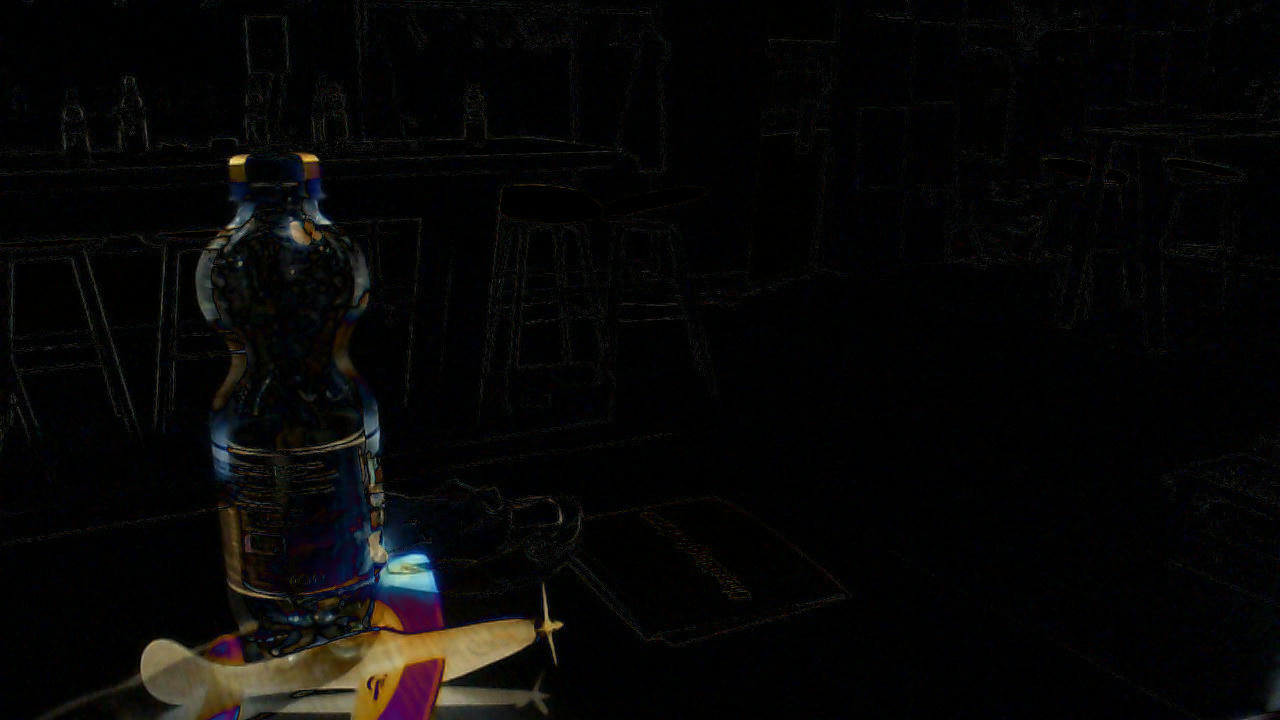
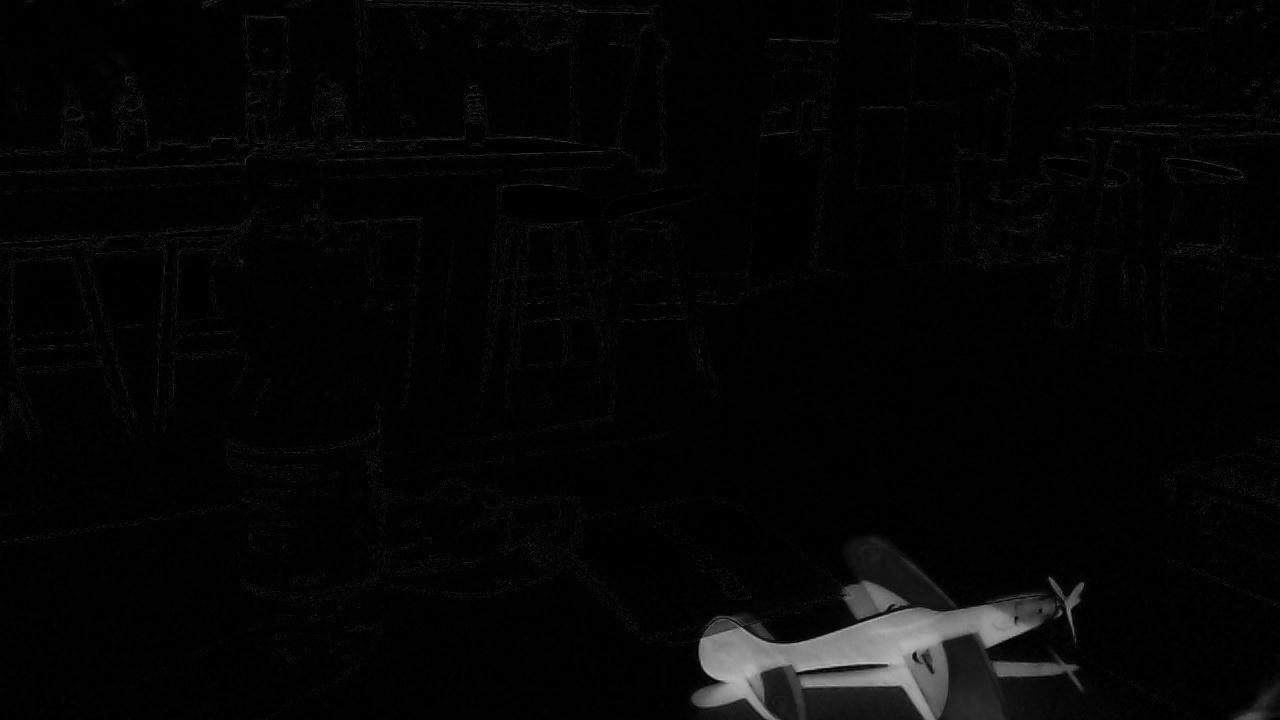
asdf

diff --git a/src/bin/detect.rs b/src/bin/detect.rs
@@ -1,62 +1,35 @@
-use image::{
-    codecs::hdr::Rgbe8Pixel, GenericImage, GenericImageView, ImageBuffer,
-    Pixel, Rgb, RgbImage,
-};
+use image::{DynamicImage, ImageBuffer, Rgb, RgbImage};
 
-pub fn difference(a: Vec<Vec<u8>>, b: Vec<Vec<u8>>) -> Vec<Vec<u8>> {
-    if (a.len() != b.len()) {
-        todo!()
-    }
-    return a
-        .iter()
-        .zip(b.iter())
-        .map(|(row1, row2)| {
-            row1.iter()
-                .zip(row2.iter())
-                .map(|(x, y)| x.abs_diff(*y))
-                .collect::<Vec<u8>>()
-        })
-        .collect::<Vec<Vec<u8>>>();
+fn h(pix: &Rgb<u8>) -> u64 {
+    let (x, y, z) = (pix.0[0] as u64, pix.0[1] as u64, pix.0[2] as u64);
+    return x * x + y * y + z * z;
 }
 
-pub fn average(mut absdiff: Vec<Vec<u8>>) -> (u32, u32) {
-    let sum: u32 = absdiff
-        .iter()
-        .map(|x| x.iter().map(|y| *y as u32).sum::<u32>())
+pub fn average(img: &DynamicImage) -> (u64, u64) {
+    let img = img.to_rgb8();
+    let sum: u64 = img.enumerate_pixels().map(|(_x, _y, pix)| h(pix)).sum();
+    let x: u64 = img
+        .enumerate_pixels()
+        .map(|(x, _y, pix)| x as u64 * h(pix))
         .sum();
-    let x: u32 = absdiff
-        .iter()
-        .enumerate()
-        .map(|(x, row)| {
-            row.iter()
-                .enumerate()
-                .map(|(y, val)| x as u32 * (*val) as u32)
-                .sum::<u32>()
-        })
-        .sum();
-    let y: u32 = absdiff
-        .iter()
-        .enumerate()
-        .map(|(x, row)| {
-            row.iter()
-                .enumerate()
-                .map(|(y, val)| y as u32 * (*val) as u32)
-                .sum::<u32>()
-        })
+    let y: u64 = img
+        .enumerate_pixels()
+        .map(|(_x, y, pix)| y as u64 * h(pix))
         .sum();
     return (x / sum, y / sum);
 }
 
 pub fn difference2(
-    img: RgbImage,
-    img2: RgbImage,
+    img: &RgbImage,
+    img2: &RgbImage,
 ) -> ImageBuffer<Rgb<u8>, Vec<u8>> {
     let mut diff = RgbImage::new(img.dimensions().0, img.dimensions().1);
+
     diff.enumerate_pixels_mut()
         .map(|(x, y, pix)| (img.get_pixel(x, y).0, img2.get_pixel(x, y).0, pix))
         .for_each(|(a, b, pix)| {
             *pix = Rgb([
-                a[0].abs_diff(b[0]), //TOdo
+                a[0].abs_diff(b[0]), //Todo
                 a[1].abs_diff(b[1]),
                 a[2].abs_diff(b[2]),
             ])

diff --git a/src/main.rs b/src/main.rs
@@ -1,12 +1,31 @@
+use egui::vec2;
 use image::open;
 #[path = "bin/detect.rs"]
 mod detect;
 mod image_manipulation;
+#[path = "bin/visualization.rs"]
+mod vis;
+
 fn main() {
-    let a = open("data/plane_2_1.jpg").unwrap();
+    let a = open("data/plane_2_2.jpg").unwrap();
     let b = open("data/no_plane_2.jpg").unwrap();
-    let mut diff = detect::difference2(a.into_rgb8(), b.into_rgb8());
-    diff.save("Testdiff.jpg");
+    let diff = detect::difference2(&a.clone().into_rgb8(), &b.into_rgb8());
+    diff.save("Difference.jpg").unwrap();
+    let diff = open("Difference.jpg").unwrap();
+    diff.grayscale().save("GrayscaleDifference.jpg").unwrap();
+    let diff = open("GrayscaleDifference.jpg").unwrap();
+    let x = detect::average(&diff);
+    let data = vec![
+        vec2(x.0 as f32, a.height() as f32 - x.1 as f32),
+        vec2(0., 0.),
+    ];
+    let native_options = eframe::NativeOptions::default();
+    eframe::run_native(
+        "My egui App",
+        native_options,
+        Box::new(|cc| Box::new(vis::MyEguiApp::new(cc, a, data))),
+    )
+    .unwrap();
     //let a = image_manipulation::to_grayscale(a);
     //let b = image_manipulation::to_grayscale(b);
     //dbg!("Grayscaled");

diff --git a/src/bin/visualization.rs b/src/bin/visualization.rs
@@ -17,13 +17,13 @@ fn main() {
     .unwrap();
 }
 
-struct MyEguiApp {
+pub struct MyEguiApp {
     tex: TextureHandle,
     data: Vec<Vec2>,
 }
 
 impl MyEguiApp {
-    fn new(
+    pub fn new(
         cc: &eframe::CreationContext<'_>,
         image: DynamicImage,
         data: Vec<Vec2>,
